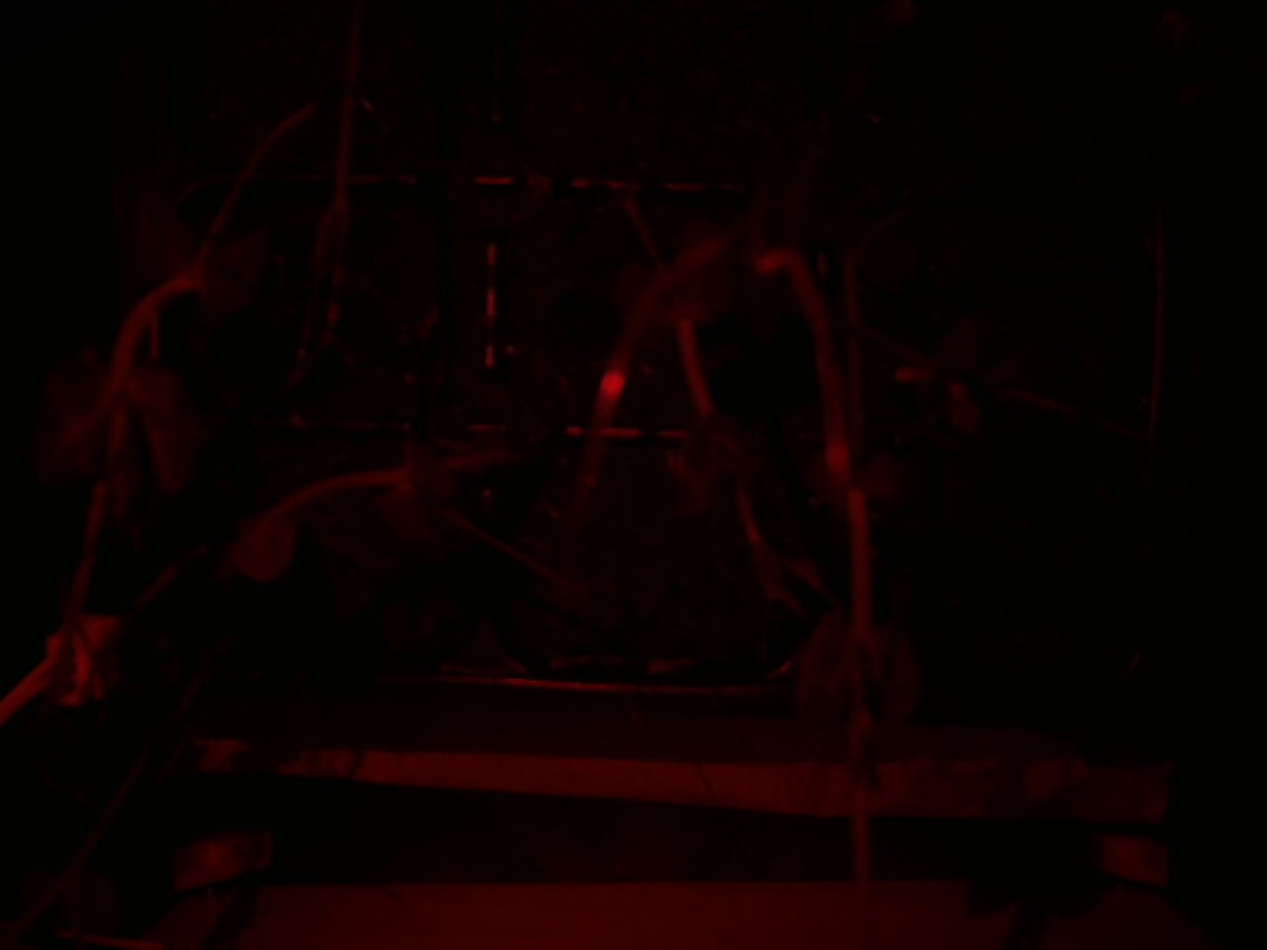
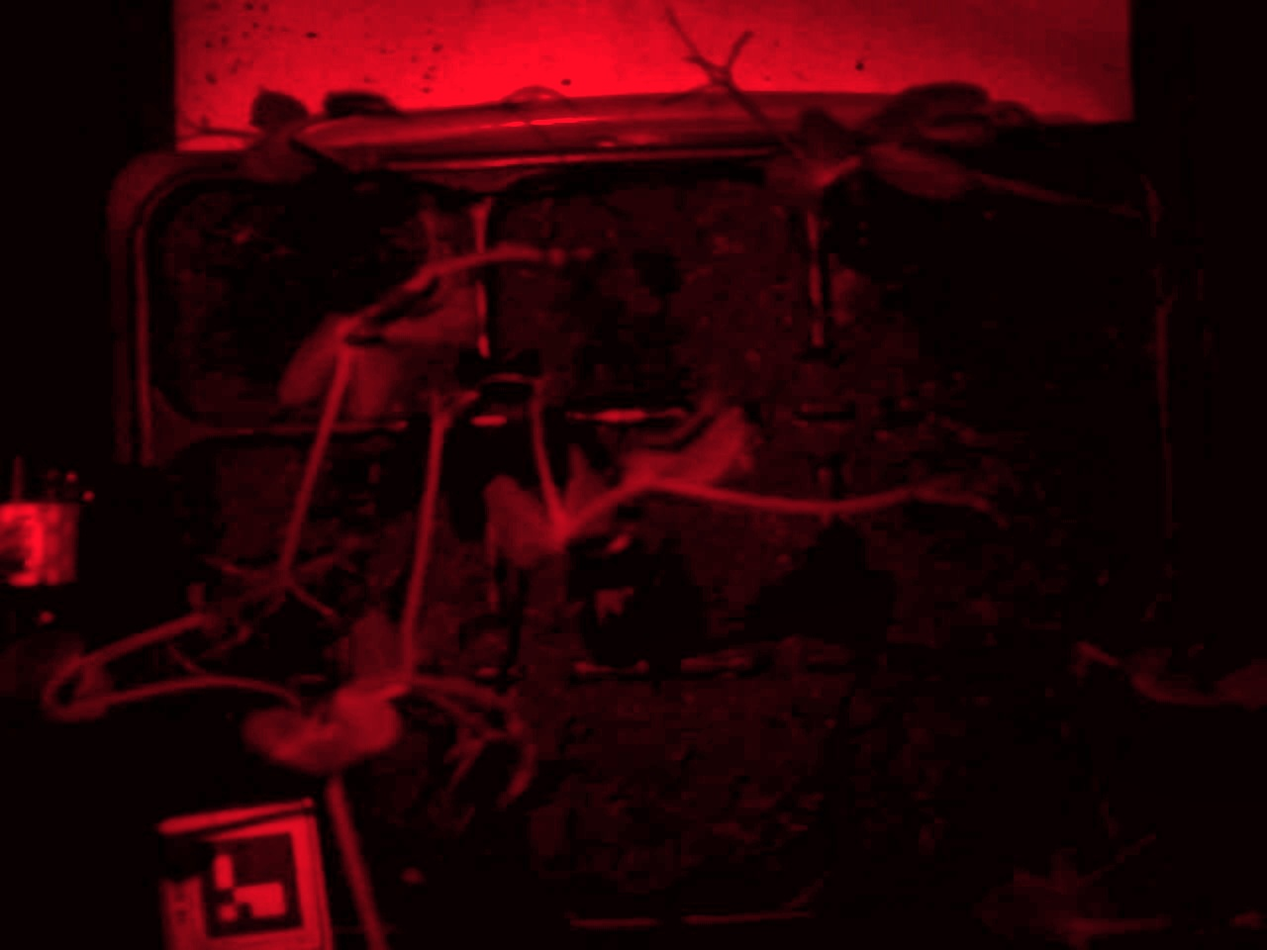
UI: Add adaptive CLAHE contrast enhancement for Red 660nm channel in dashboard

diff --git a/web_station.py b/web_station.py
@@ -54,7 +54,6 @@ import shutil
 import zipfile
 from PIL import Image
 import pytesseract
-from core.experiments import get_experiment_manager
 
 RELAY_REQ = None
 app = FastAPI(title='Plant Stress Lab Gallery Station')
@@ -690,8 +689,20 @@ def do_hardware_spectral_capture(group_name: str):
     print(f'[DEBUG Capture] RED: mean={red_raw.mean():.1f}, p90={np.percentile(red_raw, 90):.1f}, amb={amb_red.mean():.1f}', flush=True)
     print(f'[DEBUG Capture] k_bal={k_bal}, ndvi: mean={ndvi_map.mean():.3f}, max={ndvi_map.max():.3f}, leaf_mask={np.sum(leaf_mask)}', flush=True)
 
-    # Физические визуализации:
-    vis_red = frame_red.copy()
+    # Визуализаторы:
+    # Адаптивная контрастная нормализация Красного канала (660 нм) для оператора (CLAHE):
+    p_high_r = float(np.percentile(red_channel, 99.5))
+    if p_high_r > 5.0:
+        vis_red_mono = np.clip((red_channel / p_high_r) * 255.0, 0, 255).astype(np.uint8)
+        clahe_red = cv2.createCLAHE(clipLimit=2.5, tileGridSize=(8, 8))
+        vis_red_mono = clahe_red.apply(vis_red_mono)
+        vis_red = np.zeros_like(frame_red)
+        vis_red[:, :, 2] = vis_red_mono
+        vis_red[:, :, 0] = (vis_red_mono * 0.15).astype(np.uint8)
+        vis_red[:, :, 1] = (vis_red_mono * 0.05).astype(np.uint8)
+    else:
+        vis_red = frame_red.copy()
+
 
     # Адаптивное автоконтрастирование ИК-канала для наглядного отображения на экране:
     p_high = float(np.percentile(nir_channel, 99.5))
@@ -919,23 +930,16 @@ def handle_save_final(
         shutil.copyfile(src_thumb, dst_path)
         shutil.copyfile(dst_path, os.path.join(STATIC_DIR, 'last_thermal.jpg'))
 
-    row_to_add = [
-        meas_id, ts_display, group_name, weight_val,
-        s['t_air'], s['rh_air'], s['v_soil'], s['pct_soil'],
-        t_leaf_val, delta_t_val, s['vpd'],
-        s['mean_ndvi'], s['std_ndvi'], s.get('leaf_area_cm2', ''),
-        s['opt_file'], jpg_stored_name,
-        *s['cell_ndvis']
-    ]
     with open(CSV_LOG, 'a', newline='', encoding='utf-8') as f:
         writer = csv.writer(f)
-        writer.writerow(row_to_add)
-    exp_mgr = get_experiment_manager(DATA_DIR)
-    exp_mgr.save_measurement_row(row_to_add)
-    if s.get('opt_file'):
-        exp_mgr.copy_file_to_active(os.path.join(STATIC_DIR, s['opt_file']))
-    if jpg_stored_name:
-        exp_mgr.copy_file_to_active(os.path.join(STATIC_DIR, jpg_stored_name))
+        writer.writerow([
+            meas_id, ts_display, group_name, weight_val,
+            s['t_air'], s['rh_air'], s['v_soil'], s['pct_soil'],
+            t_leaf_val, delta_t_val, s['vpd'],
+            s['mean_ndvi'], s['std_ndvi'], s.get('leaf_area_cm2', ''),
+            s['opt_file'], jpg_stored_name,
+            *s['cell_ndvis']
+        ])
 
     PENDING_SESSION = None
     return RedirectResponse(url=f'/?msg=saved&last_grp={group_name}', status_code=303)
@@ -1188,16 +1192,10 @@ async def handle_batch_save_manual(request: Request):
     # Сортируем записи по ID кассеты перед записью в журнал
     records_to_save.sort(key=lambda x: x['cid'])
 
-    exp_mgr = get_experiment_manager(DATA_DIR)
     with open(CSV_LOG, 'a', newline='', encoding='utf-8') as f:
         writer = csv.writer(f)
         for r in records_to_save:
             writer.writerow(r['row'])
-            exp_mgr.save_measurement_row(r['row'])
-            if len(r['row']) > 14 and r['row'][14]:
-                exp_mgr.copy_file_to_active(os.path.join(STATIC_DIR, r['row'][14]))
-            if len(r['row']) > 15 and r['row'][15]:
-                exp_mgr.copy_file_to_active(os.path.join(STATIC_DIR, r['row'][15]))
 
     stage_name = BATCH_CONFIG.get(stage_key, {}).get('title', 'Серия 5 кассет (5-в-1)')
     BATCH_STATE = {
@@ -1279,16 +1277,10 @@ async def handle_batch_save_final(request: Request):
 
     records_to_save.sort(key=lambda r: r['cid'])
 
-    exp_mgr = get_experiment_manager(DATA_DIR)
     with open(CSV_LOG, 'a', newline='', encoding='utf-8') as f:
         writer = csv.writer(f)
         for rec in records_to_save:
             writer.writerow(rec['row'])
-            exp_mgr.save_measurement_row(rec['row'])
-            if len(rec['row']) > 14 and rec['row'][14]:
-                exp_mgr.copy_file_to_active(os.path.join(STATIC_DIR, rec['row'][14]))
-            if len(rec['row']) > 15 and rec['row'][15]:
-                exp_mgr.copy_file_to_active(os.path.join(STATIC_DIR, rec['row'][15]))
 
     stage_name = BATCH_CONFIG.get(BATCH_STATE.get('stage_key', 'batch5'), {}).get('title', 'Пакетная серия')
     BATCH_STATE = {
@@ -1482,16 +1474,6 @@ async def index(
     cur_t, cur_rh, cur_v = await get_climate_sensor().read_climate()
     cur_vpd = calc_vpd(cur_t, cur_rh)
     t_now = int(time.time())
-
-    # Инициализация и выбор активной серии опытов
-    exp_mgr = get_experiment_manager(DATA_DIR)
-    set_exp_req = request.query_params.get('set_exp')
-    if set_exp_req:
-        exp_mgr.set_active_experiment(set_exp_req)
-    active_exp = exp_mgr.get_active_experiment()
-    experiments = exp_mgr.get_experiments()
-    active_csv = exp_mgr.get_active_csv_path()
-
 
     # Определение следующей группы по умолчанию для одиночного замера
     next_group_default = 'Контроль'
@@ -1734,15 +1716,65 @@ async def index(
         '''
 
     elif stage == 'batch_await_thermal' and BATCH_STATE.get('active'):
-        # ПАКЕТНЫЙ ШАГ 2: Все 3 кассеты сняты NoIR, выбор сохранения
+        # ПАКЕТНЫЙ ШАГ 2: Все кассеты сняты NoIR, выбор сохранения
         stage_key = BATCH_STATE.get('stage_key', 'stage1')
         conf = BATCH_CONFIG.get(stage_key, BATCH_CONFIG['stage1'])
+        all_sessions = BATCH_STATE.get('sessions', [])
+
+        # Комплексный аудит серии: проверка дубликатов и пропуска массы
+        det_ids = [s.get('aruco_id') for s in all_sessions if s.get('aruco_id') is not None]
+        id_counts = {cid: det_ids.count(cid) for cid in set(det_ids)}
+        dup_cids = [cid for cid, cnt in id_counts.items() if cnt > 1]
+        has_dups = (len(all_sessions) >= 2 and (len(set(det_ids)) <= 1 or len(dup_cids) > 0))
+        missing_w_shots = [i + 1 for i, s in enumerate(all_sessions) if not str(s.get('user_weight', '')).strip()]
+
+        warnings_box = ''
+        if has_dups:
+            dup_info = ', '.join([f"#{cid} ({CASSETTE_CATALOG.get(cid, {}).get('name', 'Кассета')})" for cid in dup_cids]) if dup_cids else f"#{det_ids[0]}" if det_ids else "не определен"
+            warnings_box += f'''
+                <div style="background:#fffbeb; border:2px solid #f59e0b; border-radius:10px; padding:12px 16px; margin-bottom:14px; box-shadow:0 3px 10px rgba(245,158,11,0.12);">
+                    <div style="display:flex; align-items:flex-start; gap:12px;">
+                        <span style="font-size:26px; line-height:1;">⚠</span>
+                        <div style="flex:1;">
+                            <b style="color:#b45309; font-size:14px; display:block; text-transform:uppercase; letter-spacing:0.3px;">
+                                ВНИМАНИЕ: ОБНАРУЖЕНЫ ПОВТОРЯЮЩИЕСЯ СНИМКИ ОДНОЙ КАССЕТЫ!
+                            </b>
+                            <span style="font-size:12px; color:#92400e; display:block; margin-top:4px; line-height:1.45;">
+                                В боксе не менялась кассета между кадрами (зафиксированы повторы маркера <b>{dup_info}</b>).
+                                Станция автоматически распределила эти замеры по очередным когортам серии, но физически кадры сняты с одного объекта! 
+                                При необходимости скорректируйте когорты в выпадающих списках карточек ниже перед фиксацией.
+                            </span>
+                        </div>
+                    </div>
+                </div>
+            '''
+
+        if missing_w_shots:
+            shots_str = ', '.join([f'#{sh}' for sh in missing_w_shots])
+            warnings_box += f'''
+                <div style="background:#eff6ff; border:2px solid #3b82f6; border-radius:10px; padding:12px 16px; margin-bottom:14px; box-shadow:0 3px 10px rgba(59,130,246,0.12);">
+                    <div style="display:flex; align-items:flex-start; gap:12px;">
+                        <span style="font-size:24px; line-height:1;">⚖</span>
+                        <div style="flex:1;">
+                            <b style="color:#1d4ed8; font-size:14px; display:block; text-transform:uppercase; letter-spacing:0.3px;">
+                                ВЕС КАССЕТЫ НЕ ВВЕДЕН ДЛЯ КАДРОВ: {shots_str}!
+                            </b>
+                            <span style="font-size:12px; color:#1e40af; display:block; margin-top:4px; line-height:1.45;">
+                                Для указанных кассет не была зафиксирована масса с лабораторных весов.
+                                Рекомендуется ввести массу в граммах в подсвеченных полях <b>«⚖ Масса с весов»</b> ниже для корректного расчета влагоотдачи и стресс-динамики.
+                            </span>
+                        </div>
+                    </div>
+                </div>
+            '''
 
         cards_summary = ''
-        for i, s in enumerate(BATCH_STATE.get('sessions', [])):
+        for i, s in enumerate(all_sessions):
             m_id = s.get('aruco_id')
             grp = s.get('group', f'Кадр #{i+1}')
             m_badge = f'<span style="background:#ecfdf5; color:#065f46; padding:2px 6px; border-radius:4px; font-size:10px; font-weight:bold;">🏷 ArUco #{m_id}</span>' if m_id else '<span style="background:#fffbeb; color:#b45309; padding:2px 6px; border-radius:4px; font-size:10px; font-weight:bold;">⚠ Ручная</span>'
+            if m_id and m_id in dup_cids:
+                m_badge += ' <span style="background:#fef3c7; color:#92400e; border:1px solid #fcd34d; padding:2px 5px; border-radius:4px; font-size:9.5px; font-weight:bold;">Повтор</span>'
             
             # Генерация options для выпадающего списка выбора когорты
             options_html = ''
@@ -1750,9 +1782,24 @@ async def index(
                 sel = 'selected' if cid == m_id else ''
                 options_html += f'<option value="{cid}" {sel}>#{cid}: {cdata["name"]}</option>'
                 
-            w_val = s.get('user_weight', '')
+            w_val = str(s.get('user_weight', '')).strip()
             t_val = s.get('user_t_leaf', '')
             p_val = s.get('user_pct_soil', '64.0')
+            
+            w_is_missing = (not w_val)
+            if w_is_missing:
+                weight_input_html = f'''
+                    <div style="display:flex; justify-content:space-between; align-items:center; margin-bottom:2px;">
+                        <label style="font-size:10px; font-weight:bold; color:#b45309;">⚖ Масса, г:</label>
+                        <span style="background:#fee2e2; color:#dc2626; border:1px solid #fecdd3; padding:1px 4px; border-radius:3px; font-size:8.5px; font-weight:800;">НЕ ВВЕДЕН ⚠</span>
+                    </div>
+                    <input type="text" name="weight_g_{i}" value="" placeholder="⚠ Введите вес (г)" style="width:100%; padding:5px; font-size:12px; font-weight:bold; border:2px dashed #f59e0b; background:#fffbeb; border-radius:4px; box-sizing:border-box;">
+                '''
+            else:
+                weight_input_html = f'''
+                    <label style="font-size:10px; font-weight:bold; color:#0f766e; display:block; margin-bottom:2px;">⚖ Масса с весов, г:</label>
+                    <input type="text" name="weight_g_{i}" value="{w_val}" placeholder="напр. 410.0" style="width:100%; padding:5px; font-size:12px; font-weight:bold; border:1px solid #0d9488; border-radius:4px; box-sizing:border-box;">
+                '''
             
             cards_summary += f'''
                 <div style="flex:1; background:#ffffff; border:1.5px solid #cbd5e1; border-radius:8px; padding:10px; box-shadow:0 2px 4px rgba(0,0,0,0.02);">
@@ -1776,8 +1823,7 @@ async def index(
 
                     <div style="display:flex; flex-direction:column; gap:5px;">
                         <div>
-                            <label style="font-size:10px; font-weight:bold; color:#0f766e; display:block;">⚖ Масса с весов, г:</label>
-                            <input type="text" name="weight_g_{i}" value="{w_val}" placeholder="напр. 410.0" style="width:100%; padding:5px; font-size:12px; font-weight:bold; border:1px solid #0d9488; border-radius:4px; box-sizing:border-box;">
+                            {weight_input_html}
                         </div>
                         <div>
                             <label style="font-size:10px; font-weight:bold; color:#d97706; display:block;">🌡 T листа с UTi120S (°C):</label>
@@ -1799,6 +1845,7 @@ async def index(
                     <span style="font-size:12px; color:#047857;">{conf["title"]}</span>
                 </div>
 
+                {warnings_box}
                 <form action="/api/batch_save_manual" method="post">
                     <div style="display:grid; grid-template-columns: repeat(auto-fit, minmax(130px, 1fr)); gap:8px; margin-bottom:14px;">
                         {cards_summary}
@@ -1825,10 +1872,56 @@ async def index(
         '''
 
     elif stage == 'batch_verify' and BATCH_STATE.get('active') and BATCH_STATE.get('verified_data'):
-        # ПАКЕТНЫЙ ШАГ 3: Финальная верификация всей тройки кассет, отсортированной по ArUco
+        # ПАКЕТНЫЙ ШАГ 3: Финальная верификация серии кассет
         stage_key = BATCH_STATE.get('stage_key', 'stage1')
         conf = BATCH_CONFIG.get(stage_key, BATCH_CONFIG['stage1'])
         verified = BATCH_STATE.get('verified_data', [])
+
+        # Комплексный аудит верифицированной серии
+        v_det_ids = [item.get('detected_id') for item in verified if item.get('detected_id') is not None]
+        v_id_counts = {cid: v_det_ids.count(cid) for cid in set(v_det_ids)}
+        v_dup_cids = [cid for cid, cnt in v_id_counts.items() if cnt > 1]
+        v_has_dups = (len(verified) >= 2 and (len(set(v_det_ids)) <= 1 or len(v_dup_cids) > 0))
+        v_missing_w = [i + 1 for i, item in enumerate(verified) if not str(item['session'].get('user_weight', '')).strip()]
+
+        verify_warnings_box = ''
+        if v_has_dups:
+            v_dup_info = ', '.join([f"#{cid} ({CASSETTE_CATALOG.get(cid, {}).get('name', 'Кассета')})" for cid in v_dup_cids]) if v_dup_cids else f"#{v_det_ids[0]}" if v_det_ids else "не определен"
+            verify_warnings_box += f'''
+                <div style="background:#fffbeb; border:2px solid #f59e0b; border-radius:10px; padding:12px 16px; margin-bottom:14px; box-shadow:0 3px 10px rgba(245,158,11,0.12);">
+                    <div style="display:flex; align-items:flex-start; gap:12px;">
+                        <span style="font-size:26px; line-height:1;">⚠</span>
+                        <div style="flex:1;">
+                            <b style="color:#b45309; font-size:14px; display:block; text-transform:uppercase; letter-spacing:0.3px;">
+                                ВНИМАНИЕ: ОБНАРУЖЕНЫ ПОВТОРЯЮЩИЕСЯ СНИМКИ ОДНОЙ КАССЕТЫ!
+                            </b>
+                            <span style="font-size:12px; color:#92400e; display:block; margin-top:4px; line-height:1.45;">
+                                В боксе не менялась кассета между кадрами (зафиксированы повторы маркера <b>{v_dup_info}</b>).
+                                Станция автоматически распределила эти кадры по когортам, но оптические снимки относятся к одному растению.
+                                Убедитесь в правильности назначения когорт в выпадающих списках перед итоговым сохранением!
+                            </span>
+                        </div>
+                    </div>
+                </div>
+            '''
+
+        if v_missing_w:
+            v_shots_str = ', '.join([f'#{sh}' for sh in v_missing_w])
+            verify_warnings_box += f'''
+                <div style="background:#eff6ff; border:2px solid #3b82f6; border-radius:10px; padding:12px 16px; margin-bottom:14px; box-shadow:0 3px 10px rgba(59,130,246,0.12);">
+                    <div style="display:flex; align-items:flex-start; gap:12px;">
+                        <span style="font-size:24px; line-height:1;">⚖</span>
+                        <div style="flex:1;">
+                            <b style="color:#1d4ed8; font-size:14px; display:block; text-transform:uppercase; letter-spacing:0.3px;">
+                                ВЕС КАССЕТЫ НЕ ВВЕДЕН: ЗАМЕРЫ {v_shots_str}!
+                            </b>
+                            <span style="font-size:12px; color:#1e40af; display:block; margin-top:4px; line-height:1.45;">
+                                Рекомендуется указать фактическую массу в граммах в подсвеченных полях <b>«⚖ Масса с весов»</b> ниже перед сохранением в базу данных.
+                            </span>
+                        </div>
+                    </div>
+                </div>
+            '''
 
         items_html = ''
         for i, item in enumerate(verified):
@@ -1878,8 +1971,7 @@ async def index(
 
                     <div style="display:grid; grid-template-columns: 1fr 1fr 1fr; gap:10px;">
                         <div>
-                            <label style="font-size:11px; font-weight:bold; display:block; margin-bottom:2px; color:#0f766e;">⚖ Масса с весов, г:</label>
-                            <input type="text" name="weight_g_{i}" value="{s.get('user_weight', '')}" placeholder="напр. 415.0" style="width:100%; padding:7px; font-size:13px; border:2px solid var(--sirius-teal); border-radius:6px; box-sizing:border-box;" {'autofocus' if i==0 else ''}>
+                            {f'''<div style="display:flex; justify-content:space-between; align-items:center; margin-bottom:2px;"><label style="font-size:11px; font-weight:bold; color:#b45309;">⚖ Масса с весов, г:</label><span style="background:#fee2e2; color:#dc2626; border:1px solid #fecdd3; padding:1px 5px; border-radius:3px; font-size:9.5px; font-weight:800;">НЕ ВВЕДЕН ⚠</span></div><input type="text" name="weight_g_{i}" value="" placeholder="⚠ Введите массу с весов (г)" style="width:100%; padding:7px; font-size:13px; font-weight:bold; border:2px dashed #f59e0b; background:#fffbeb; border-radius:6px; box-sizing:border-box;">''' if not str(s.get('user_weight', '')).strip() else f'''<label style="font-size:11px; font-weight:bold; display:block; margin-bottom:2px; color:#0f766e;">⚖ Масса с весов, г:</label><input type="text" name="weight_g_{i}" value="{s.get('user_weight', '')}" placeholder="напр. 415.0" style="width:100%; padding:7px; font-size:13px; border:2px solid var(--sirius-teal); border-radius:6px; box-sizing:border-box;">'''}
                         </div>
                         <div>
                             <label style="font-size:11px; font-weight:bold; display:block; margin-bottom:2px; color:#0284c7;">💧 Влажность почвы, %:</label>
@@ -1911,6 +2003,7 @@ async def index(
                     <h2 style="margin:2px 0 0 0; color:var(--sirius-teal-dark); font-size:16px;">{conf["title"]}</h2>
                 </div>
 
+                {verify_warnings_box}
                 <form action="/api/batch_save_final" method="post">
                     {items_html}
 
@@ -2057,9 +2150,6 @@ async def index(
                     <b style="font-size:14px; display:block;">ЗАПУСТИТЬ ЗАМЕР 5 КАССЕТ (5-В-1)</b>
                     <span style="font-size:10px; opacity:0.95; display:block; margin-top:2px;">🟢 К1 Контроль • 🟣 К2 Осмос • 🔴 К3 Засуха • 🟡 К4 Превенция • 🔵 К5 Реакция</span>
                 </a>
-                <div style="margin-top:7px; font-size:11px; color:#1e40af; background:#eff6ff; border:1px solid #bfdbfe; border-radius:6px; padding:5px 8px; text-align:center;">
-                    🌿 Запись в серию: <b>{active_exp.get('name')}</b> <span style="color:#64748b;">({active_exp.get('plant')})</span>
-                </div>
 
                 <!-- Памятка по изолятору соли -->
                 <div style="margin-top:8px; padding:6px 10px; background:#f5f3ff; border:1px solid #ddd6fe; border-radius:6px; font-size:10px; color:#5b21b6; line-height:1.3;">
@@ -2088,10 +2178,10 @@ async def index(
             </div>
         '''
 
-    # ТАБЛИЦА ЖУРНАЛА АКТИВНОЙ СЕРИИ ОПЫТОВ
+    # ТАБЛИЦА ЖУРНАЛА
     rows = []
-    if os.path.exists(active_csv):
-        with open(active_csv, 'r', encoding='utf-8') as f:
+    if os.path.exists(CSV_LOG):
+        with open(CSV_LOG, 'r', encoding='utf-8') as f:
             all_r = list(csv.reader(f))
             if len(all_r) > 1:
                 rows = all_r[1:]
@@ -2417,10 +2507,7 @@ async def index(
         "cur_t": cur_t,
         "cur_rh": cur_rh,
         "cur_vpd": cur_vpd,
-        "cur_v": cur_v,
-        "active_exp": active_exp,
-        "experiments": experiments,
-        "rows_count": len(rows)
+        "cur_v": cur_v
     })
 @app.get('/download/pdf')
 def download_pdf():
@@ -2483,55 +2570,6 @@ def download_aruco_pdf():
     if os.path.exists(html_path):
         return FileResponse(html_path, filename='aruco_markers_cassettes.html', media_type='text/html')
     return HTMLResponse('Лист маркеров не найден')
-
-
-# ----------------- ЭНДПОИНТЫ УПРАВЛЕНИЯ СЕРИЯМИ ОПЫТОВ -----------------
-@app.post('/api/experiment/switch')
-def handle_experiment_switch(exp_id: str = Form(...)):
-    """Переключение активной серии опытов (культуры/растения)."""
-    exp_mgr = get_experiment_manager(DATA_DIR)
-    exp_mgr.set_active_experiment(exp_id)
-    return RedirectResponse(url=f'/?msg=exp_switched&set_exp={exp_id}', status_code=303)
-
-@app.post('/api/experiment/create')
-def handle_experiment_create(
-    name: str = Form(...),
-    plant: str = Form(''),
-    description: str = Form('')
-):
-    """Создание новой серии опытов с выделенной папкой."""
-    exp_mgr = get_experiment_manager(DATA_DIR)
-    new_e = exp_mgr.create_experiment(name=name, plant=plant, description=description)
-    return RedirectResponse(url=f'/?msg=exp_created&set_exp={new_e["id"]}', status_code=303)
-
-@app.get('/download/experiment_zip')
-def handle_download_experiment_zip(exp_id: str = ''):
-    """Выгрузка ZIP-архива конкретной серии (CSV + все снимки серии)."""
-    exp_mgr = get_experiment_manager(DATA_DIR)
-    target_id = exp_id if exp_id else exp_mgr.get_active_experiment().get('id', 'exp_1')
-    target_exp = None
-    for e in exp_mgr.get_experiments():
-        if e['id'] == target_id:
-            target_exp = e
-            break
-    if not target_exp:
-        target_exp = exp_mgr.get_active_experiment()
-
-    safe_name = "".join(c for c in target_exp.get('name', 'experiment') if c.isalnum() or c in (' ', '_', '-')).strip().replace(' ', '_')
-    zip_fname = f"{safe_name}.zip"
-    zip_path = os.path.join(DATA_DIR, f"temp_{target_id}.zip")
-    exp_mgr.generate_zip(target_id, zip_path)
-    return FileResponse(zip_path, filename=zip_fname, media_type='application/zip')
-
-@app.get('/download/csv')
-def download_active_csv():
-    exp_mgr = get_experiment_manager(DATA_DIR)
-    csv_p = exp_mgr.get_active_csv_path()
-    active_exp = exp_mgr.get_active_experiment()
-    safe_name = "".join(c for c in active_exp.get('name', 'experiment') if c.isalnum() or c in (' ', '_', '-')).strip().replace(' ', '_')
-    if os.path.exists(csv_p):
-        return FileResponse(csv_p, filename=f'{safe_name}_measurements.csv', media_type='text/csv')
-    return HTMLResponse('Файл журнала пуст')
 
 app.mount('/static', StaticFiles(directory=STATIC_DIR), name='static')
 
